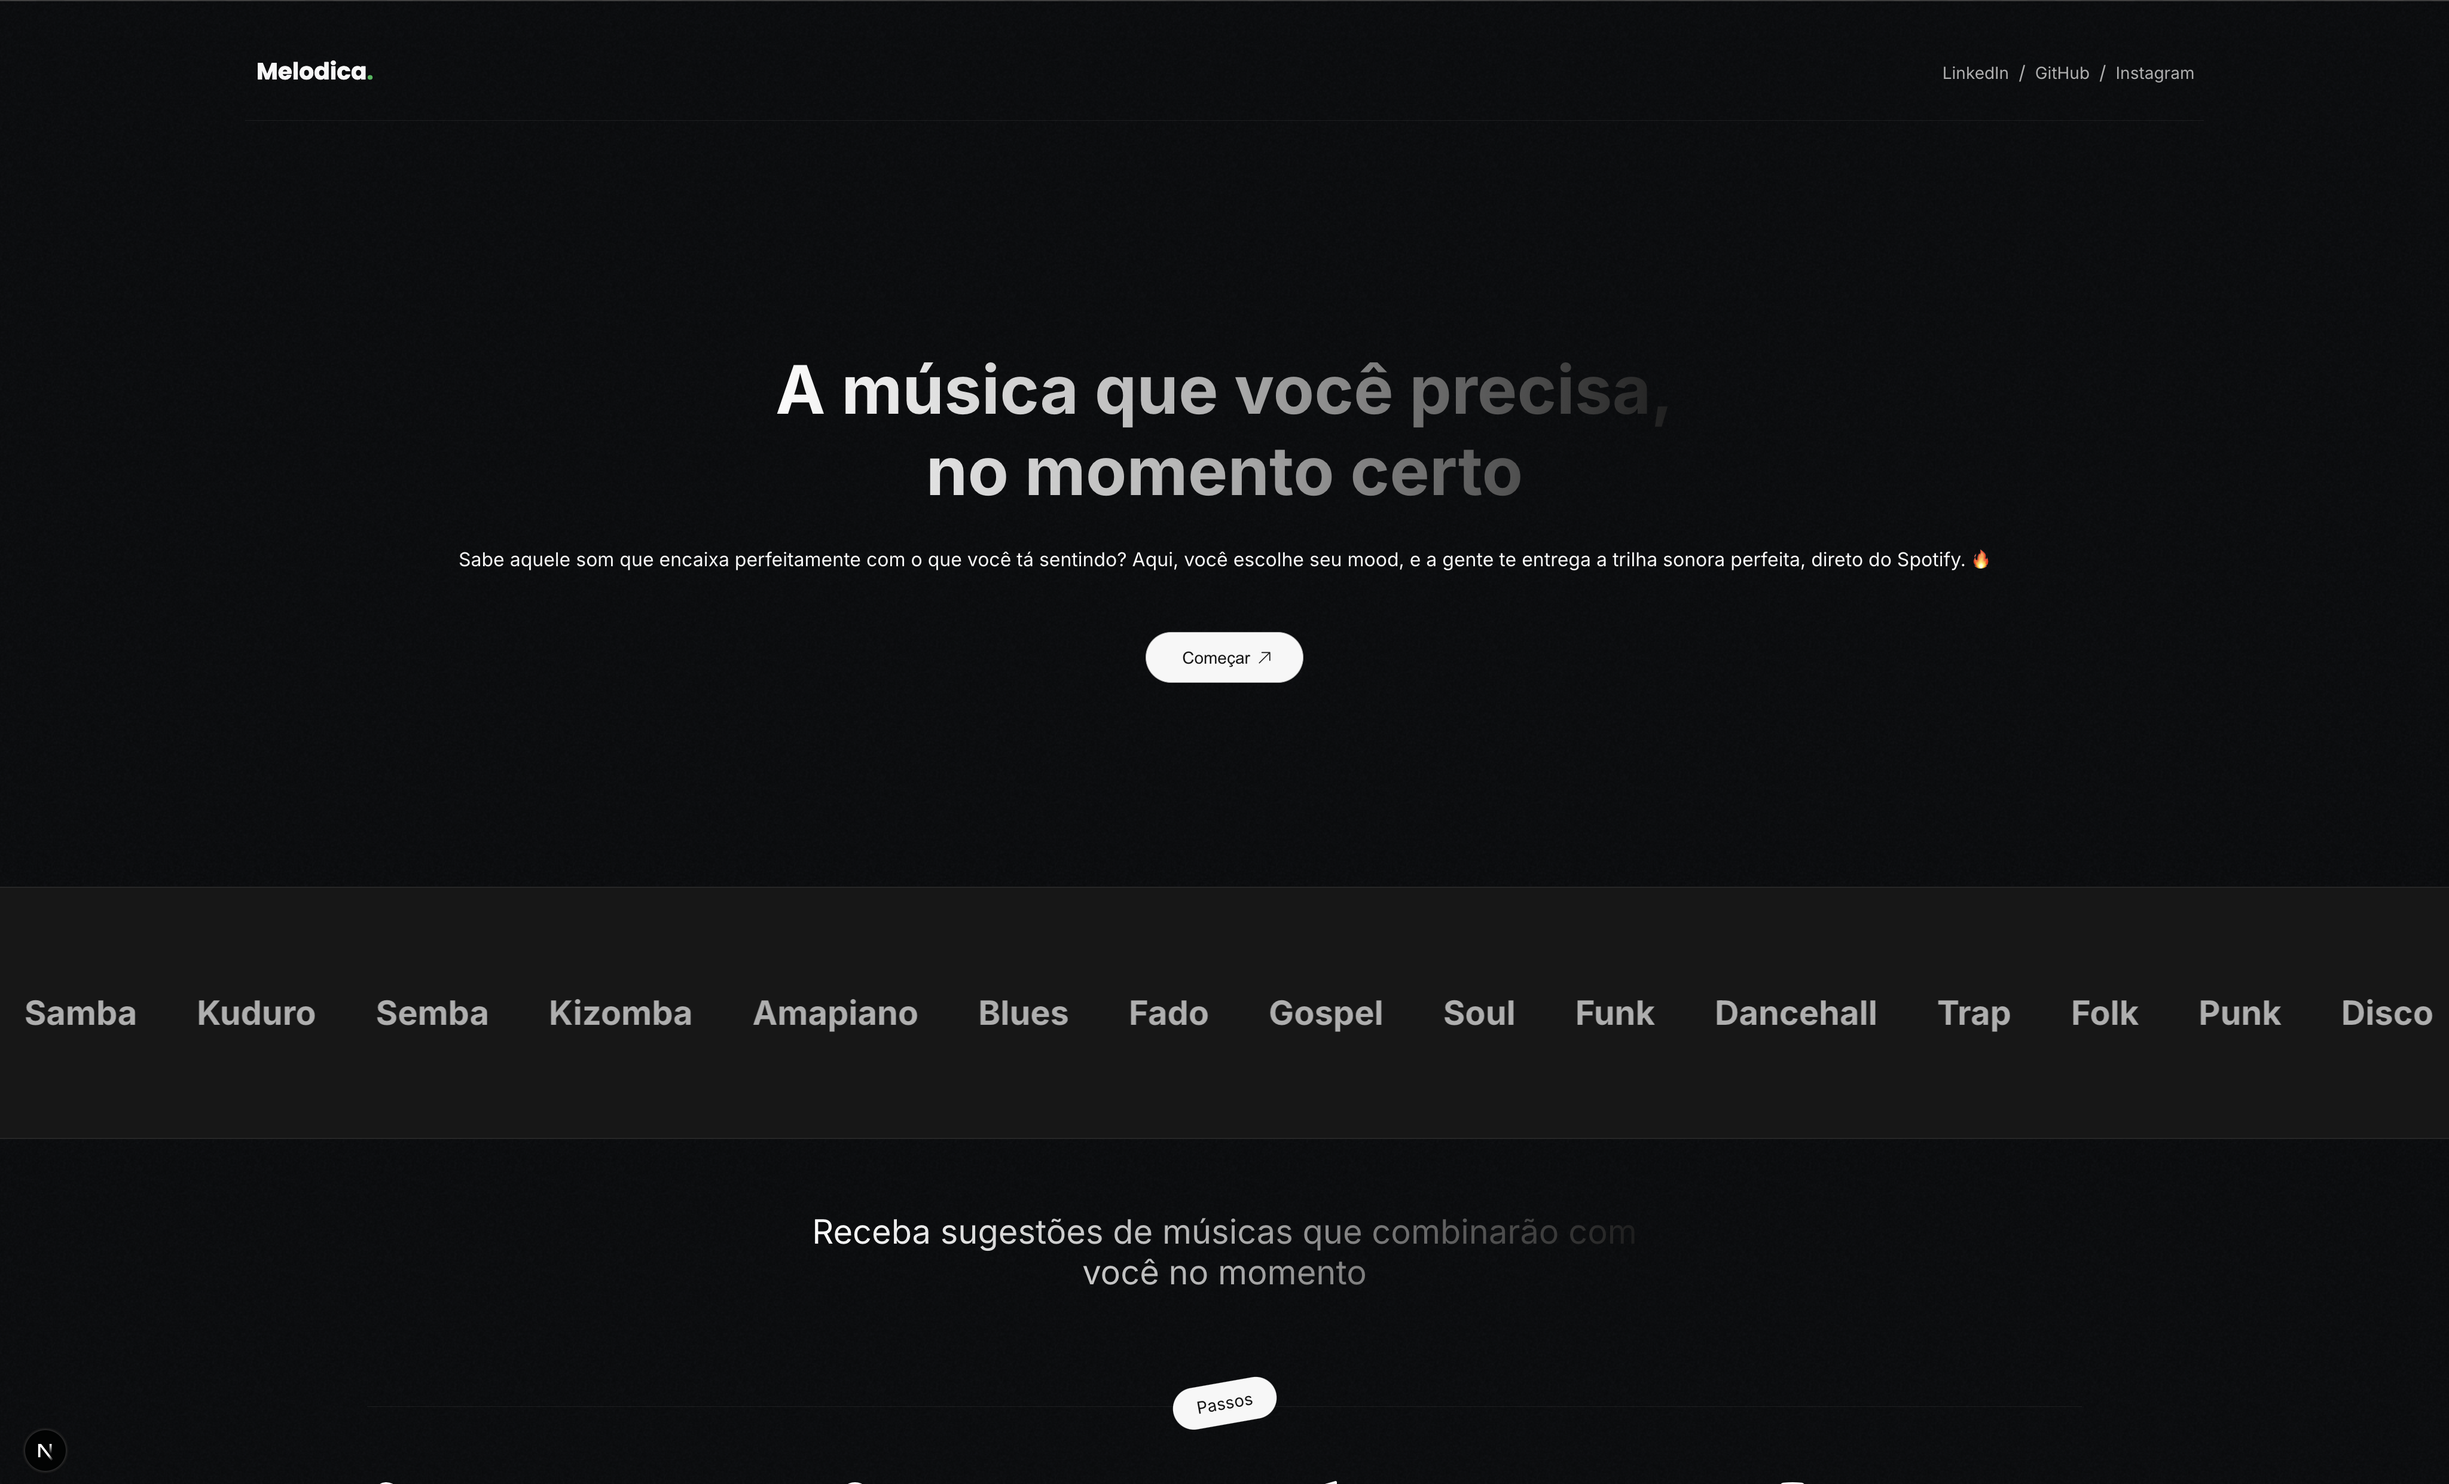
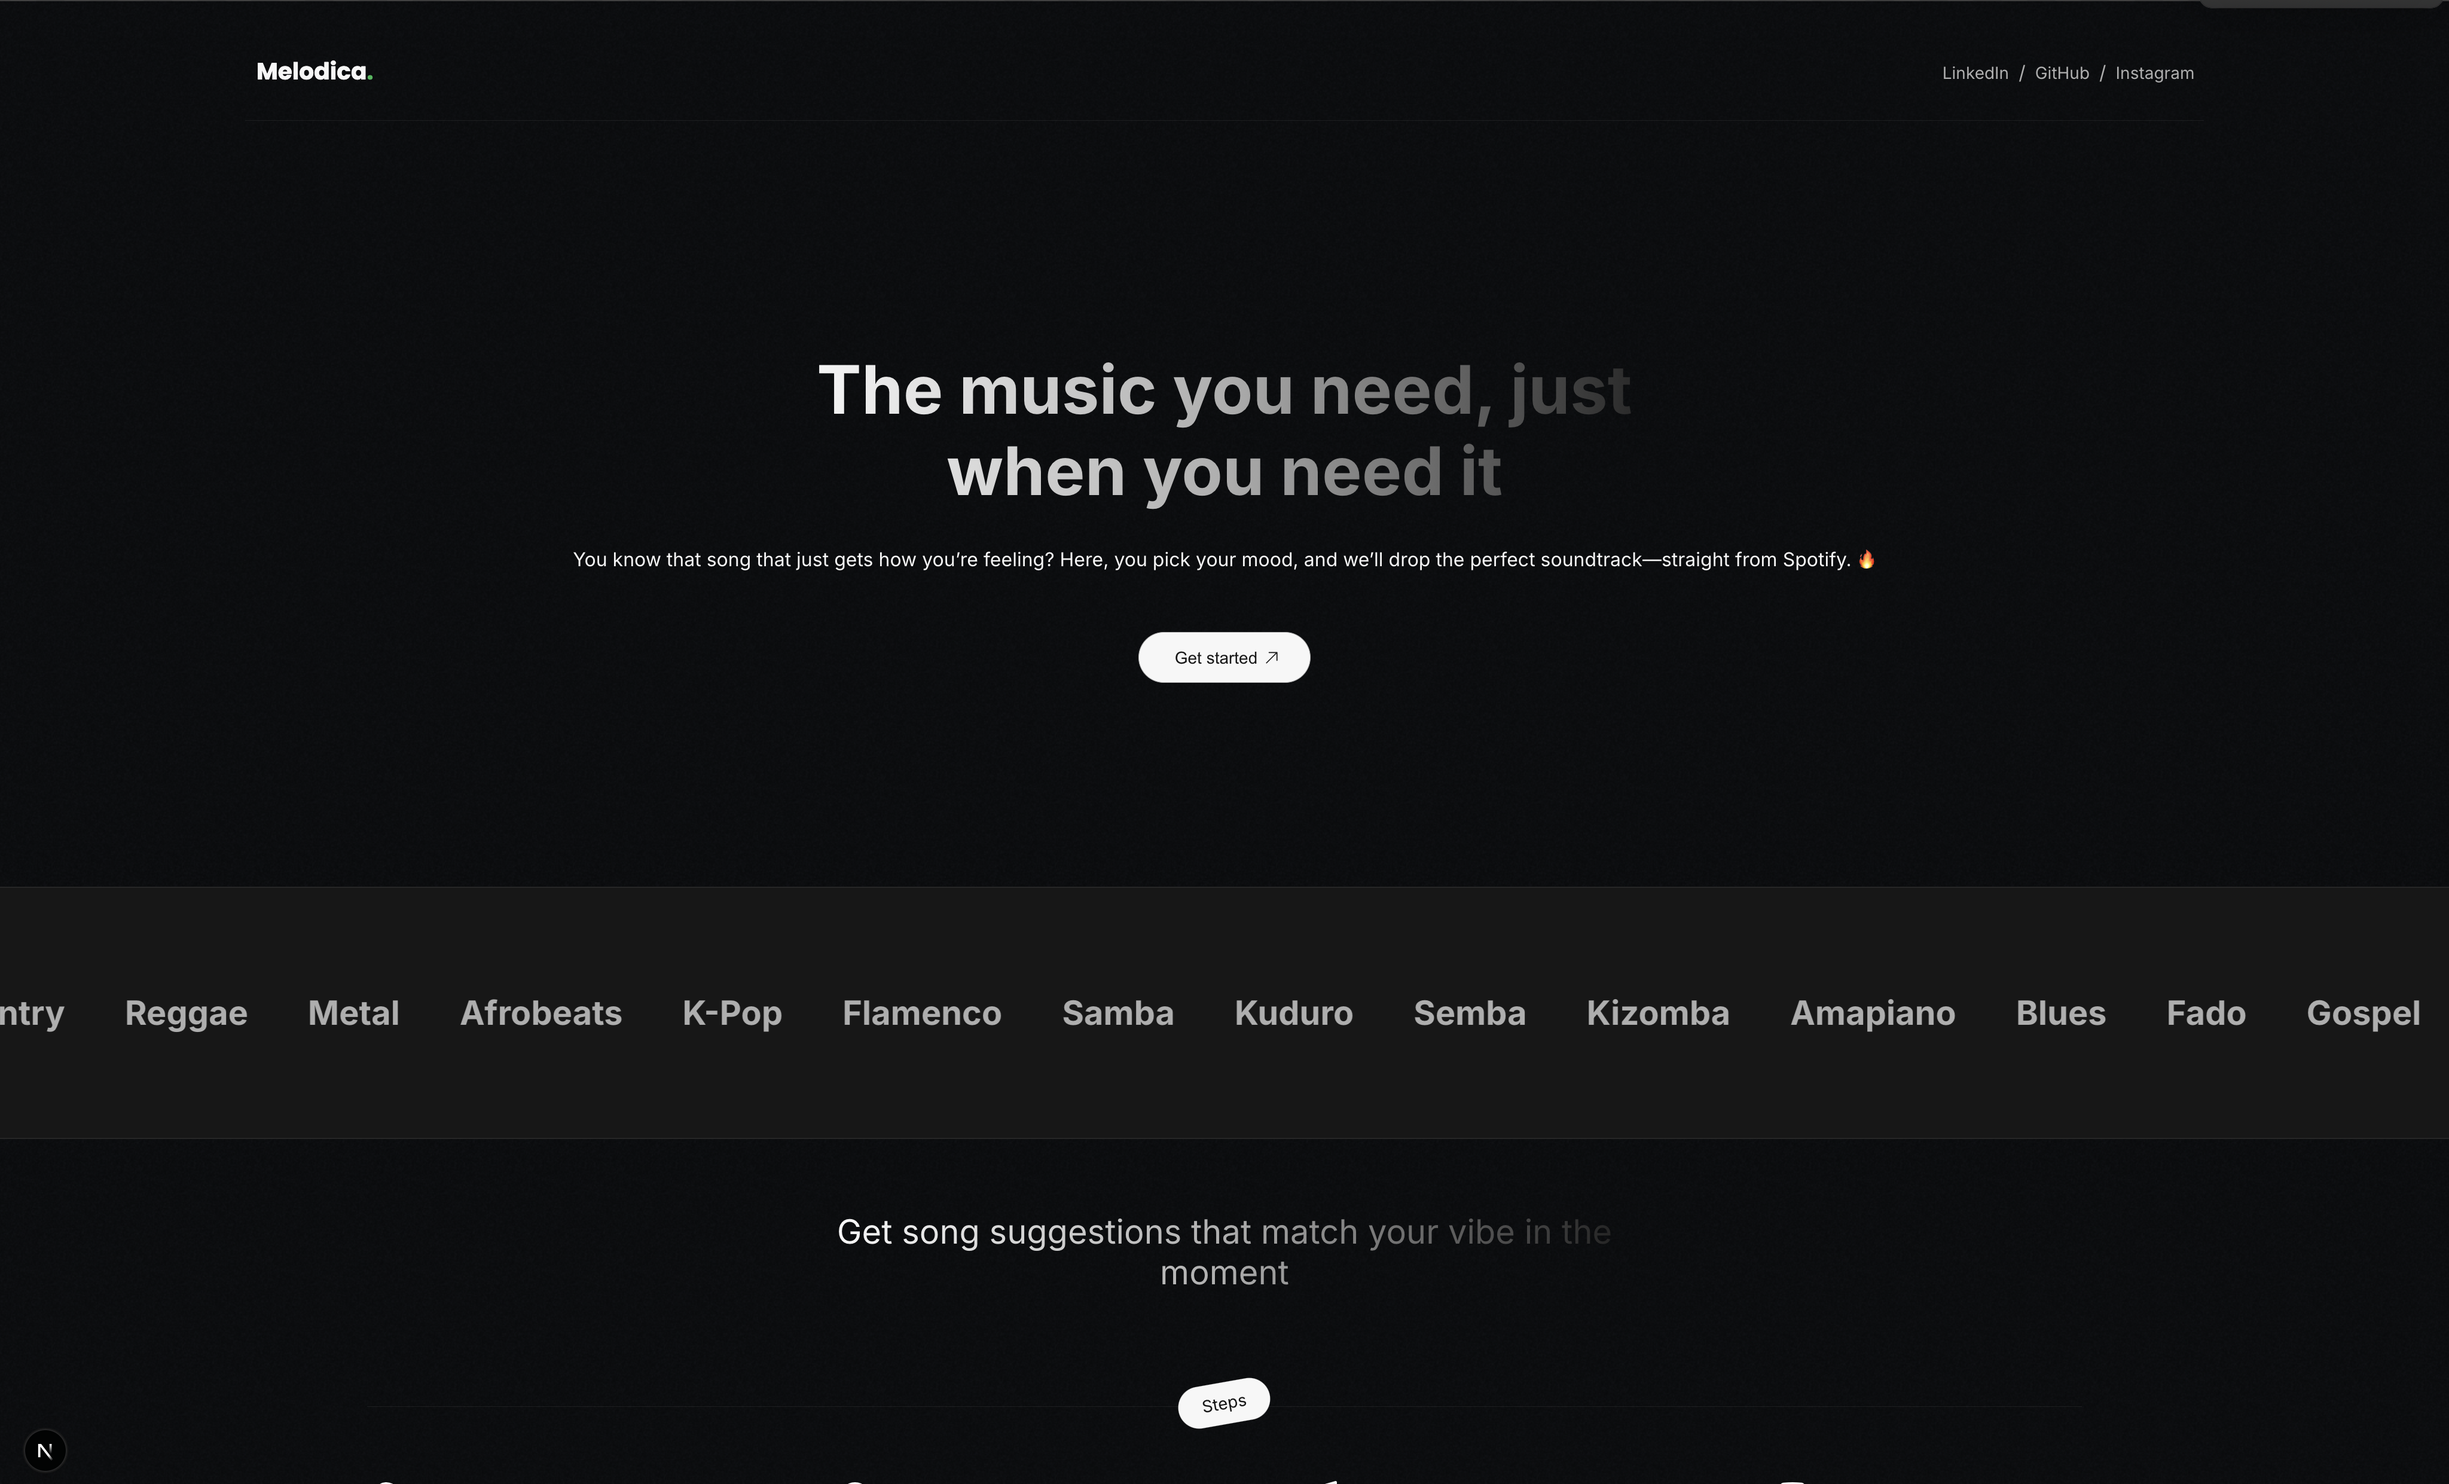
contents in english

diff --git a/src/app/page.js b/src/app/page.js
@@ -5,8 +5,6 @@ import styles from "./page.module.css";
 import Icons from "@/components/icons";
 import { useRouter } from "next/navigation";
 
-
-
 export default function Home() {
   const router = useRouter();
 
@@ -19,19 +17,20 @@ export default function Home() {
       <section className={styles.banner}>
         <div className={styles.bannerWrapper}>
           <h1 className={styles.title}>
-            A música que você precisa, no momento certo
+            The music you need, just when you need it
           </h1>
           <p className={styles.description}>
-            Sabe aquele som que encaixa perfeitamente com o que você tá
-            sentindo? Aqui, você escolhe seu mood, e a gente te entrega a trilha
-            sonora perfeita, direto do Spotify. 🔥
+            You know that song that just gets how you’re feeling? Here, you pick
+            your mood, and we’ll drop the perfect soundtrack—straight from
+            Spotify. 🔥
           </p>
           <p className={styles.description2}>
-          Escolha seu mood e receba a trilha sonora perfeita do Spotify. 🔥
+            Set your vibe, and we’ll hit you with the perfect Spotify
+            soundtrack. 🔥
           </p>
           <div className={styles.cto}>
             <button className={styles.cta} onClick={handleLogin}>
-              Começar
+              Get started
               <Icons.Link className={styles.linkIcon} />
             </button>
           </div>
@@ -74,44 +73,40 @@ export default function Home() {
 
       <section className={styles.steps}>
         <div className={styles.stepsWrapper}>
-          <h2>
-            Receba sugestões de músicas que combinarão com você no momento
-          </h2>
-          <span className={styles.stepsSign}>Passos</span>
+          <h2>Get song suggestions that match your vibe in the moment</h2>
+          <span className={styles.stepsSign}>Steps</span>
           <div className={styles.stepsContent}>
             <div className={styles.stepCard}>
               <Icons.FingerPrint className={styles.stepIcon} />
-              <h3>Acesse o Spotify</h3>
+              <h3>Access Spotify</h3>
               <p>
-                Conecte a sua conta Spotify e a gente gerenciará as suas
-                playlists com base no que estás sentindo.
+                Connect your Spotify account and we'll manage your playlists
+                based on how you're feeling.
               </p>
             </div>
 
             <div className={styles.stepCard}>
               <Icons.Feeling className={styles.stepIcon} />
-              <h3>Escolha seu mood</h3>
+              <h3>Choose your mood</h3>
               <p>
-                Selecione como você está se sentindo no momento e deixe a mágica
-                acontecer.
+                Tell us how you're feeling right now and let the magic happen.
               </p>
             </div>
 
             <div className={styles.stepCard}>
               <Icons.Playlist className={styles.stepIcon} />
-              <h3>Receba sugestões de Playlist</h3>
+              <h3>Get playlist suggestions</h3>
               <p>
-                Nós vamos te recomendar as melhores playlists do Spotify que
-                combinam com o seu mood.
+                We’ll recommend the best Spotify playlists that match your mood.
               </p>
             </div>
 
             <div className={styles.stepCard}>
               <Icons.Save className={styles.stepIcon} />
-              <h3>Salve Playlist</h3>
+              <h3>Save Playlist</h3>
               <p>
-                Se gostou da seleção, salve a playlist no seu Spotify e ouça
-                quando quiser.
+                If you liked the selection, save the playlist to your Spotify
+                and listen whenever you want.
               </p>
             </div>
           </div>

diff --git a/src/app/recommendations/page.js b/src/app/recommendations/page.js
@@ -10,39 +10,39 @@ import { formatDuration } from "@/utils/spotify";
 const moodBanners = {
   happy: {
     image: "/img/happyBanner.svg",
-    title: "Feliz e com ritmo! 🎉",
+    title: "Happy and groovin'! 🎉",
     description:
-      "Sons contagiantes pra acompanhar teu bom humor. De pop a kuduro, deixa a batida guiar teu sorriso.",
+      "Catchy beats to match your good mood. From pop to kuduro, let the rhythm guide your smile.",
   },
   relaxed: {
     image: "/img/relaxedBanner.svg",
-    title: "Relax total 😌",
+    title: "Total chill 😌",
     description:
-      "Músicas suaves pra descontrair e curtir o momento. Jazz, lo-fi, kizomba... é só sentir.",
+      "Smooth tunes to unwind and enjoy the moment. Jazz, lo-fi, kizomba... just feel it.",
   },
   focus: {
     image: "/img/focusBanner.svg",
-    title: "Foco no objetivo 🎯",
+    title: "Focused on the goal 🎯",
     description:
-      "Instrumentais e eletrônicas que te mantêm produtivo e centrado. Sem distrações, só flow.",
+      "Instrumentals and electronic beats to keep you productive and in the zone. No distractions, just flow.",
   },
   romantic: {
     image: "/img/romanticBanner",
-    title: "Amor no ar 💘",
+    title: "Love in the air 💘",
     description:
-      "Trilhas que tocam o coração. De soul a flamenco, sinta a vibe apaixonada no ar.",
+      "Tracks that touch the heart. From soul to flamenco, feel the romantic vibe in the air.",
   },
   sad: {
     image: "/img/sadBanner.svg",
-    title: "Momento introspectivo 🌧",
+    title: "Introspective moment 🌧",
     description:
-      "Músicas pra refletir e sentir. Acalma o peito com tons suaves e profundos.",
+      "Songs to reflect and feel. Calm your heart with smooth, deep tones.",
   },
   angry: {
     image: "/img/angryBanner.svg",
-    title: "Solta tudo! 🔥",
+    title: "Let it all out! 🔥",
     description:
-      "Quando a energia tá intensa, o som também tem que ser. Rock, trap, metal – libera geral.",
+      "When the energy is intense, the sound needs to match. Rock, trap, metal – let it all go.",
   },
 };
 
@@ -136,7 +136,7 @@ export default function Recommendations() {
                       target="_blank"
                       rel="noopener noreferrer"
                     >
-                      Abrir
+                      Open
                       <Icons.Link className="playlistsIcon" />
                     </Link>
                   </td>

diff --git a/src/app/mood-selection/page.js b/src/app/mood-selection/page.js
@@ -81,17 +81,19 @@ function MoodSelectionContent() {
 
   return (
     <main className="moodSelection">
-      <h1>Conte-nos como te sentes e nós recomendamos-te a música perfeita</h1>
+      <h1>
+        Tell us how you feel and we'll recommend the perfect playlists for you
+      </h1>
       <div className="moodSelectionWrapper">
         <form onSubmit={handleSubmit}>
           <div className="groupMood">
             {[
-              { id: "happy", label: "Feliz", img: "/img/happy.svg" },
-              { id: "relaxed", label: "Tranquilo", img: "/img/relaxed.svg" },
-              { id: "focus", label: "Focado", img: "/img/focus.svg" },
-              { id: "romantic", label: "Apaixonado", img: "/img/romantic.svg" },
-              { id: "sad", label: "Triste", img: "/img/sad.svg" },
-              { id: "angry", label: "Chateado", img: "/img/angry.svg" },
+              { id: "happy", label: "Happy", img: "/img/happy.svg" },
+              { id: "relaxed", label: "Chill", img: "/img/relaxed.svg" },
+              { id: "focus", label: "Focused", img: "/img/focus.svg" },
+              { id: "romantic", label: "In love", img: "/img/romantic.svg" },
+              { id: "sad", label: "Sad", img: "/img/sad.svg" },
+              { id: "angry", label: "Mad", img: "/img/angry.svg" },
             ].map((mood) => (
               <label key={mood.id} htmlFor={mood.id} className="moodCard">
                 <input
@@ -124,7 +126,7 @@ function MoodSelectionContent() {
             ) : (
               <>
                 <Icons.Search className="moodSubmitIcon" />
-                Buscar músicas
+                Get playlists
               </>
             )}
           </button>

diff --git a/src/app/recommendations/recommendations.css b/src/app/recommendations/recommendations.css
@@ -10,7 +10,7 @@ html {
 }
 .playlistBanner {
   width: 100%;
-  height: 30vh;
+  height: 25vh;
   border-radius: 10px;
   margin: 20px;
   background-size: contain;
@@ -43,76 +43,6 @@ html {
   display: flex;
   flex-direction: column;
 }
-
-/*
-.playlistGrid {
-  width: 75%;
-  display: flex;
-  flex-wrap: wrap;
-  gap: 20px;
-  flex-direction: row;
-}
-.playlistGrid .playlist {
-  width: 49%;
-  height: 240px;
-  display: flex;
-}
-.playlist .playlistCover {
-  width: 40%;
-  height: auto;
-  display: flex;
-  align-items: end;
-}
-.playlistCover img {
-  width: 100%;
-  height: 100%;
-  object-fit: cover;
-}
-
-.playlist .playlistDetails {
-  width: 60%;
-  height: auto;
-  padding: 0 0 3% 5%;
-  display: flex;
-  flex-direction: column;
-  justify-content: end;
-}
-.playlistDetails h2 {
-  font-size: var(--title-5);
-  font-weight: bolder;
-  color: var(--white);
-  margin-bottom: 5px;
-}
-.playlistDetails p {
-  display: -webkit-box;
-  -webkit-line-clamp: 3;
-  -webkit-box-orient: vertical;
-  overflow: hidden;
-  text-overflow: ellipsis;
-  line-height: 1.4;
-  max-height: 3em;
-  font-size: var(--paragraph-3);
-  color: var(--white);
-  font-weight: 300;
-  margin-bottom: 20px;
-}
-.playlistDetails a {
-  max-width: 140px;
-  display: inline-flex;
-  padding: 12px 20px;
-  font-size: var(--paragraph-3);
-  color: var(--black);
-  border-radius: 25px;
-  background-color: var(--white);
-}
-.playlistDetails .playlistOpenIcon {
-  width: 17px;
-  height: 17px;
-  position: relative;
-  top: 4px;
-  left: 4px;
-}
-*/
 
 .table-container {
   width: 100%;

diff --git a/src/app/layout.js b/src/app/layout.js
@@ -6,7 +6,7 @@ import "./globals.css";
 import Link from "next/link";
 import Image from "next/image";
 
-import Logo from "/public/img/whitelogo.svg"
+import Logo from "/public/img/whitelogo.svg";
 
 const inter = Inter({
   subsets: ["latin"],
@@ -47,7 +47,11 @@ export default function RootLayout({ children }) {
                   LinkedIn
                 </Link>
                 /
-                <Link href="https://github.com/SavioTito" target="_blank" rel="noopener noreferrer">
+                <Link
+                  href="https://github.com/SavioTito"
+                  target="_blank"
+                  rel="noopener noreferrer"
+                >
                   GitHub
                 </Link>
                 /
@@ -68,7 +72,7 @@ export default function RootLayout({ children }) {
         {!hideHeaderFooter && (
           <footer>
             <div className="footerWrapper">
-              <p>© 2021 Melodica. Todos os direitos reservados.</p>
+              <p>© 2021 Melodica. All rights reserved.</p>
             </div>
           </footer>
         )}
